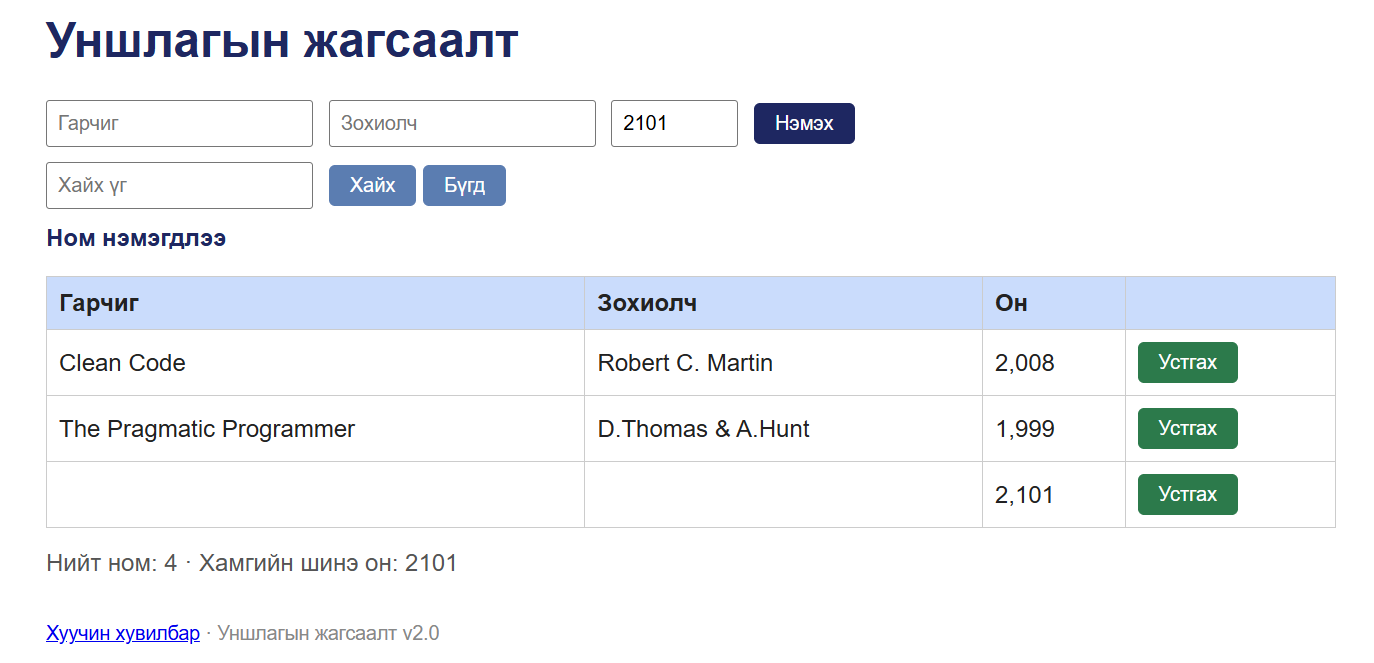
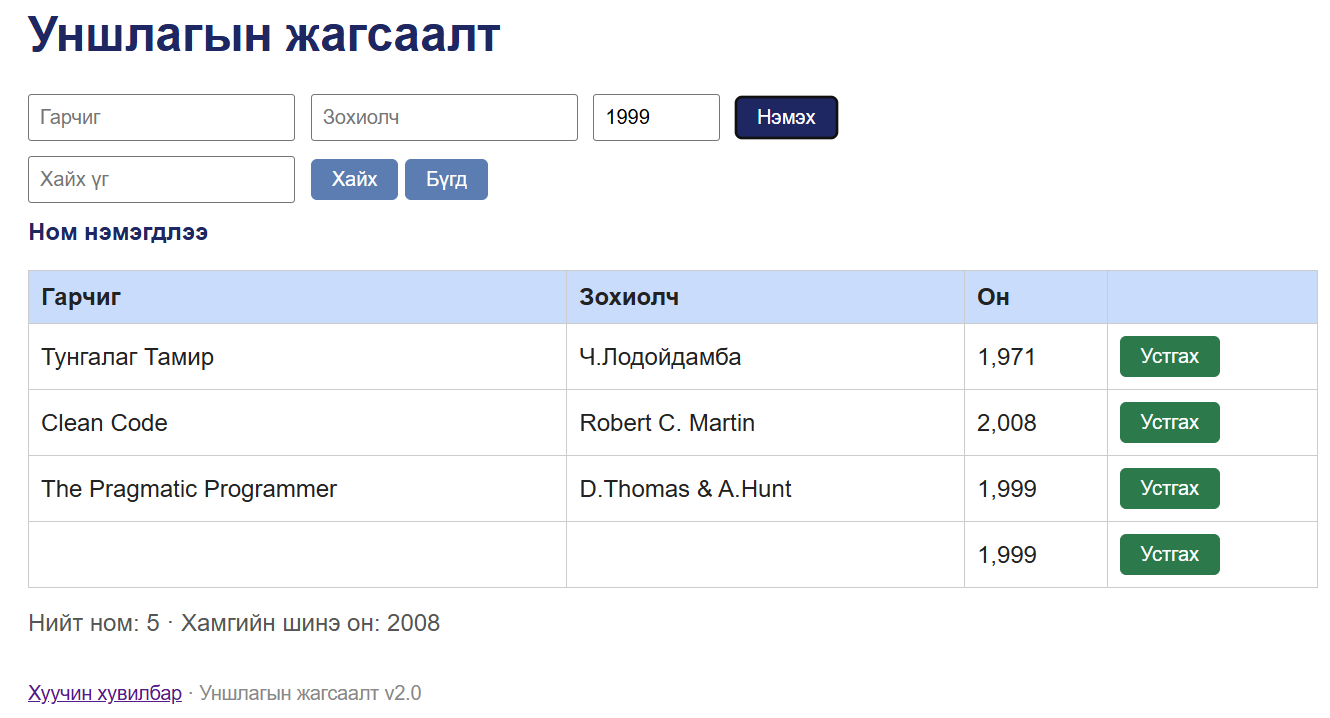
Session 1 report timeline, BUG-05 report, charter brackets fix

diff --git a/session-report.md b/session-report.md
@@ -1,11 +1,13 @@
 # Session report
 
 - Тестер: Х.Дэлгэр (B222270835)
-- Огноо: 2026-10-14, 17:38 - 17:38 (60 мин)
+- Огноо: 2026-10-14, 17:30 - 18:12 (42 мин)
 - Mission: Уншлагын жагсаалт аппын чанарыг шинжлэх
 - Charter: Ном нэмэх форм, хүснэгт, хайлт, устгах, «Нийт ном» тоолуур болон /api/books API-г хоосон/хил хязгаарын/буруу оролт, давхардал, curl-ээр буруу JSON ашиглан шалгаж, validation, мессеж, тоолуур, UI болон HTTP статусын согог илрүүлэх. Аялал: Couch Potato, Saboteur, Supermodel, FedEx.
 
 ## Тэмдэглэл (он цагийн дарааллаар)
+
+### Session-ий явцад автоматаар бичигдсэн түүхий тэмдэглэл (notes.txt)
 
 ```
 17:38 API GET /api/books -> HTTP/1.1 200 OK
@@ -22,13 +24,29 @@
 17:38 API POST [valid] body={"title":"Valid book","author":"Tester","year":1999} -> HTTP/1.1 201 Created (evidence/api-valid.txt)
 ```
 
+### Session-ий дараа нотолгооны файлын хадгалсан цагаар нөхсөн (live тэмдэглээгүй хэсэг)
+
+```
+17:30 Session эхэлсэн, аппыг шинээр асаасан
+17:31 BUG-01 Гарчиг, Зохиолч хоосон, Он 2101 → «Ном нэмэгдлээ», хоосон мөр нэмэгдсэн (анхны скриншот; bug-01.png-г дараа нь Он=1999-өөр дахин авсан)
+18:01 BUG-07 Буруу JSON → HTTP/1.1 200 OK, 400 байх ёстой (evidence/bug-07-curl.txt)
+18:03 BUG-02 Test / Test / 2101 → ном нэмэгдсэн, «Хамгийн шинэ он: 2101» (screenshots/bug-02.png)
+18:03 BUG-03 Он баганад 2,008 / 1,999 гэж таслалтай харагдана (screenshots/bug-03.png)
+18:04 BUG-04 «Устгах» товч ногоон өнгөтэй (screenshots/bug-04.png)
+18:06 BUG-06 Clean Code / Robert C. Martin / 2008 давхардаж нэмэгдсэн; 4 мөр, «Нийт ном: 5» (screenshots/bug-06.png)
+18:07 BUG-05 Шинэ апп: хүснэгтэд 3 мөр, «Нийт ном: 4» (screenshots/bug-05.png)
+18:12 BUG-08 «Хуучин хувилбар» линк → /old → «Internal Server Error» (screenshots/bug-08.png)
+```
+
 ## Саадууд (issues)
 
+- UI тестийн үеэр тэмдэглэлээ шууд хөтлөөгүй тул дээрх хэсгийг скриншот, curl файлуудын хадгалсан цагаар (date -r) нөхөж бичсэн.
 - Заавар Linux-д зориулагдсан тул Windows 10 дээр Git Bash (MSYS2 UCRT64) ашигласан; PowerShell-д curl-ийн хашилт эвдэрдэг.
 - VS Code терминалд paste хийхэд ^[[200~ тэмдэгт нэмэгдэж команд эвдэрсэн → «Ignore Bracketed Paste Mode» тохиргоог асааж засав.
 - API-ийн талбарын нэрийг урьдчилан мэдээгүй тул эхлээд GET /api/books-оор шалгасан.
-- Апп өгөгдлөө санах ойд хадгалдаг тул curl туршилт өгөгдлийг өөрчилсний дараа UI тест бүрийн өмнө аппыг дахин асаах шаардлагатай байв.
+- Апп өгөгдлөө санах ойд хадгалдаг тул curl туршилтын дараа UI тест бүрийн өмнө аппыг дахин асаах шаардлагатай байв.
 - Скриншотыг Win+Shift+S-ээр авч гараар нэрлэж хадгалах нь цаг авсан.
+- bug-01.png-г session-ий дараа Он=1999-өөр дахин авсан (BUG-01-ийг BUG-02-оос салгах).
 
 ## Цагийн задаргаа
 
